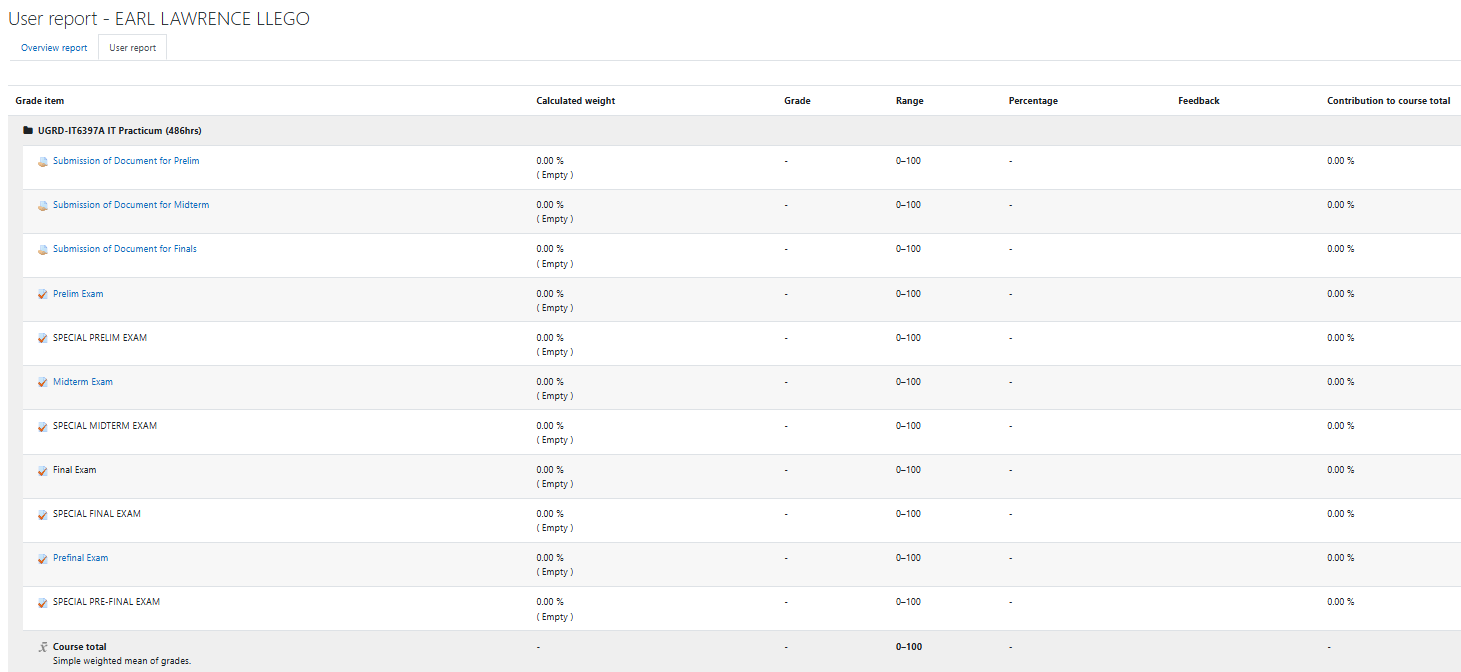
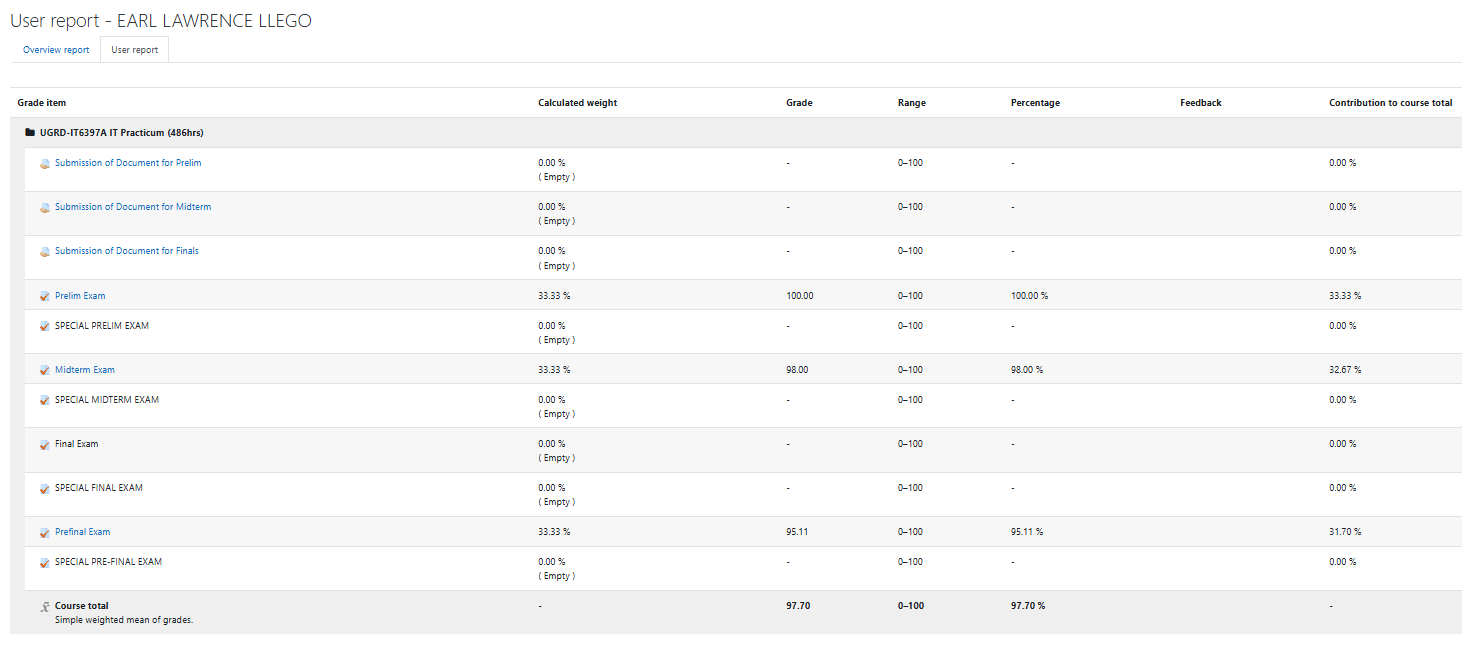
image

diff --git a/build_index.py b/build_index.py
@@ -1,0 +1,331 @@
+# One Piece Theme Builder for index.html
+part1 = """<!DOCTYPE html>
+<html lang="en">
+<head>
+<meta charset="utf-8">
+<meta name="viewport" content="width=device-width, initial-scale=1, viewport-fit=cover">
+<meta name="theme-color" content="#120c08">
+<title>earl41 LMS · One Piece Grand Line Reviewer</title>
+<link rel="preconnect" href="https://fonts.googleapis.com">
+<link rel="preconnect" href="https://fonts.gstatic.com" crossorigin>
+<link href="https://fonts.googleapis.com/css2?family=Bangers&family=Cinzel:wght@600;700;800;900&family=Pirata+One&family=Plus+Jakarta+Sans:wght@500;600;700;800&display=swap" rel="stylesheet">
+<style>
+:root {
+  --straw-yellow: #f5bc25;
+  --straw-gold: #e29b12;
+  --luffy-red: #d32027;
+  --luffy-crimson: #9e141a;
+  --marine-navy: #0b1a2e;
+  --grand-deep: #060e18;
+  --ocean-blue: #143e64;
+  --ocean-azure: #1b6899;
+  --sea-foam: #e1f4fb;
+  --parchment: #f9f3db;
+  --parchment-mid: #eedfb8;
+  --parchment-border: #c8b27d;
+  --ink-black: #1b130e;
+  --ink-brown: #3f2715;
+  --wood-plank: #2c1a0e;
+  --wood-dark: #190f08;
+  --gold-accent: #fcd34d;
+  --gold-bright: #ffe277;
+  --white: #ffffff;
+  --font-pirate: "Pirata One", cursive, serif;
+  --font-hero: "Bangers", impact, sans-serif;
+  --font-bounty: "Cinzel", Georgia, serif;
+  --font-body: "Plus Jakarta Sans", system-ui, -apple-system, sans-serif;
+  color-scheme: dark;
+}
+
+* { box-sizing: border-box; margin: 0; padding: 0; }
+html { scroll-behavior: smooth; }
+body {
+  font-family: var(--font-body);
+  color: var(--parchment);
+  line-height: 1.5;
+  min-height: 100vh;
+  font-weight: 500;
+  background-color: var(--grand-deep);
+  background-image: 
+    radial-gradient(ellipse 90% 60% at 50% 0%, rgba(27,104,153,0.35) 0%, rgba(11,26,46,0.85) 60%, var(--grand-deep) 100%),
+    repeating-linear-gradient(45deg, rgba(255,255,255,0.015) 0 2px, transparent 2px 8px),
+    linear-gradient(180deg, #091728 0%, #050d17 100%);
+  background-attachment: fixed;
+  padding: env(safe-area-inset-top) env(safe-area-inset-right) env(safe-area-inset-bottom) env(safe-area-inset-left);
+  position: relative;
+  overflow-x: hidden;
+}
+
+:focus-visible {
+  outline: 3px solid var(--straw-yellow);
+  outline-offset: 3px;
+}
+
+.wrap {
+  width: min(1200px, 100% - 2.5rem);
+  margin-inline: auto;
+}
+
+/* TOP PIRATE GALLEY BAR */
+header.bar {
+  position: sticky;
+  top: 0;
+  z-index: 50;
+  background: 
+    linear-gradient(180deg, rgba(44,26,14,0.98), rgba(25,15,8,0.98)),
+    repeating-linear-gradient(90deg, transparent 0 60px, rgba(0,0,0,0.35) 60px 62px);
+  border-bottom: 3px solid var(--straw-gold);
+  box-shadow: 0 8px 24px rgba(0,0,0,0.65), 0 2px 0 rgba(255,255,255,0.08) inset;
+  backdrop-filter: blur(8px);
+}
+.bar .wrap {
+  display: flex;
+  align-items: center;
+  justify-content: space-between;
+  gap: 1rem;
+  padding-block: 0.65rem;
+}
+.brand {
+  display: flex;
+  align-items: center;
+  gap: 0.85rem;
+  text-decoration: none;
+  color: var(--parchment);
+  transition: transform 0.2s ease;
+}
+.brand:hover {
+  transform: scale(1.02);
+}
+.brand-flag {
+  width: 48px;
+  height: 48px;
+  background: radial-gradient(circle at 40% 40%, #201712, #0d0805);
+  border: 2px solid var(--straw-yellow);
+  border-radius: 50%;
+  display: grid;
+  place-items: center;
+  box-shadow: 0 0 12px rgba(245, 188, 37, 0.4), inset 0 0 6px rgba(0,0,0,0.8);
+}
+.brand-flag svg {
+  width: 32px;
+  height: 32px;
+}
+.brand-title {
+  display: flex;
+  flex-direction: column;
+}
+.brand-title b {
+  font-family: var(--font-pirate);
+  font-size: 1.85rem;
+  line-height: 1;
+  letter-spacing: 0.04em;
+  color: var(--parchment);
+  text-shadow: 2px 2px 0 var(--ink-black), 0 0 8px rgba(245,188,37,0.3);
+}
+.brand-title b span {
+  color: var(--straw-yellow);
+}
+.brand-title small {
+  font-family: var(--font-bounty);
+  font-size: 0.68rem;
+  letter-spacing: 0.16em;
+  font-weight: 800;
+  text-transform: uppercase;
+  color: var(--parchment-mid);
+  opacity: 0.85;
+}
+.header-badge {
+  display: inline-flex;
+  align-items: center;
+  gap: 0.5rem;
+  background: rgba(211,32,39,0.18);
+  border: 1px solid rgba(211,32,39,0.5);
+  padding: 0.35rem 0.85rem;
+  border-radius: 999px;
+  font-family: var(--font-bounty);
+  font-size: 0.78rem;
+  font-weight: 700;
+  color: var(--gold-bright);
+  letter-spacing: 0.05em;
+  box-shadow: 0 0 12px rgba(211,32,39,0.25);
+}
+.header-badge .skull-dot {
+  width: 10px;
+  height: 10px;
+  background: var(--luffy-red);
+  border-radius: 50%;
+  box-shadow: 0 0 8px var(--luffy-red);
+  animation: pulse 2s infinite;
+}
+@keyframes pulse {
+  0%, 100% { transform: scale(1); opacity: 1; }
+  50% { transform: scale(1.3); opacity: 0.7; }
+
+part2 = """
+/* HERO SECTION */
+.hero {
+  position: relative;
+  overflow: hidden;
+  padding-block: clamp(2.5rem, 6vw, 4.5rem) clamp(3.5rem, 7vw, 5.5rem);
+  text-align: center;
+  border-bottom: 2px solid rgba(245, 188, 37, 0.25);
+  background: 
+    radial-gradient(circle at 50% 25%, rgba(27, 104, 153, 0.45) 0%, transparent 65%),
+    linear-gradient(180deg, rgba(11,26,46,0.95) 0%, rgba(6,14,24,0.98) 100%);
+}
+.hero-particles {
+  position: absolute;
+  inset: 0;
+  pointer-events: none;
+  overflow: hidden;
+}
+.hero-particles i {
+  position: absolute;
+  bottom: -20px;
+  border-radius: 50%;
+  background: radial-gradient(circle, rgba(252,211,77,0.9), rgba(211,32,39,0.3));
+  box-shadow: 0 0 10px rgba(252,211,77,0.8);
+  animation: floatUp 8s linear infinite;
+}
+@keyframes floatUp {
+  0% { transform: translateY(0) scale(0.6) rotate(0deg); opacity: 0; }
+  20% { opacity: 0.8; }
+  80% { opacity: 0.8; }
+  100% { transform: translateY(-700px) scale(1.2) rotate(360deg); opacity: 0; }
+}
+
+.hero-seal {
+  display: inline-flex;
+  align-items: center;
+  gap: 0.6rem;
+  background: rgba(245, 188, 37, 0.12);
+  border: 1.5px solid var(--straw-yellow);
+  padding: 0.45rem 1.2rem;
+  border-radius: 999px;
+  font-family: var(--font-bounty);
+  font-size: 0.8rem;
+  font-weight: 800;
+  color: var(--straw-yellow);
+  letter-spacing: 0.2em;
+  text-transform: uppercase;
+  margin-bottom: 1.3rem;
+  box-shadow: 0 0 16px rgba(245, 188, 37, 0.25);
+}
+.hero-title {
+  font-family: var(--font-pirate);
+  font-size: clamp(3rem, 9vw, 6.5rem);
+  line-height: 0.95;
+  color: var(--straw-yellow);
+  text-shadow: 
+    3px 3px 0 var(--luffy-crimson),
+    6px 6px 0 var(--ink-black),
+    0 0 25px rgba(245, 188, 37, 0.45);
+  letter-spacing: 0.02em;
+  margin-inline: auto;
+  transform: rotate(-1deg);
+}
+.hero-title small {
+  display: block;
+  font-family: var(--font-hero);
+  font-size: clamp(1.4rem, 4vw, 2.7rem);
+  color: var(--white);
+  letter-spacing: 0.05em;
+  margin-top: 0.4rem;
+  text-shadow: 
+    2px 2px 0 var(--marine-navy),
+    4px 4px 0 var(--ink-black),
+    0 0 16px rgba(255,255,255,0.3);
+  transform: rotate(1deg);
+}
+.hero p {
+  max-width: 54ch;
+  margin: 1.4rem auto 0;
+  font-size: clamp(1rem, 2.2vw, 1.2rem);
+  color: var(--parchment);
+  font-weight: 600;
+  text-shadow: 0 2px 6px rgba(0,0,0,0.7);
+  line-height: 1.6;
+}
+
+/* STATS - TREASURE BOUNTIES */
+.stats {
+  display: flex;
+  flex-wrap: wrap;
+  justify-content: center;
+  gap: 1.1rem;
+  margin-top: 2.2rem;
+}
+.stat-box {
+  background: 
+    linear-gradient(135deg, rgba(249,243,219,0.96), rgba(238,223,184,0.95));
+  border: 3px solid var(--straw-gold);
+  border-radius: 14px;
+  padding: 0.75rem 1.4rem;
+  box-shadow: 
+    0 6px 0 var(--ink-brown),
+    0 12px 20px rgba(0,0,0,0.5),
+    inset 0 0 10px rgba(197, 153, 75, 0.35);
+  color: var(--ink-black);
+  display: flex;
+  align-items: center;
+  gap: 0.85rem;
+  min-width: 175px;
+  position: relative;
+  transition: transform 0.2s ease, box-shadow 0.2s ease;
+}
+.stat-box:hover {
+  transform: translateY(-3px);
+  box-shadow: 
+    0 9px 0 var(--ink-brown),
+    0 16px 24px rgba(0,0,0,0.6);
+}
+.stat-icon {
+  width: 40px;
+  height: 40px;
+  border-radius: 10px;
+  background: var(--marine-navy);
+  color: var(--straw-yellow);
+  display: grid;
+  place-items: center;
+  border: 2px solid var(--straw-gold);
+  box-shadow: inset 0 0 6px rgba(0,0,0,0.7);
+  flex-shrink: 0;
+}
+.stat-info {
+  text-align: left;
+}
+.stat-info strong {
+  font-family: var(--font-bounty);
+  font-size: 1.7rem;
+  font-weight: 900;
+  line-height: 1;
+  color: var(--luffy-crimson);
+  display: block;
+  letter-spacing: -0.02em;
+}
+.stat-info span {
+  font-family: var(--font-bounty);
+  font-size: 0.72rem;
+  font-weight: 800;
+  letter-spacing: 0.1em;
+  text-transform: uppercase;
+  color: var(--ink-brown);
+}
+
+/* WAVE SVG SEPARATOR */
+.wave-divider {
+  position: absolute;
+  bottom: -1px;
+  left: 0;
+  width: 100%;
+  height: 38px;
+  z-index: 2;
+  pointer-events: none;
+}
+.wave-divider path {
+  fill: var(--grand-deep);
+}
+"""
+
+}
+"""
